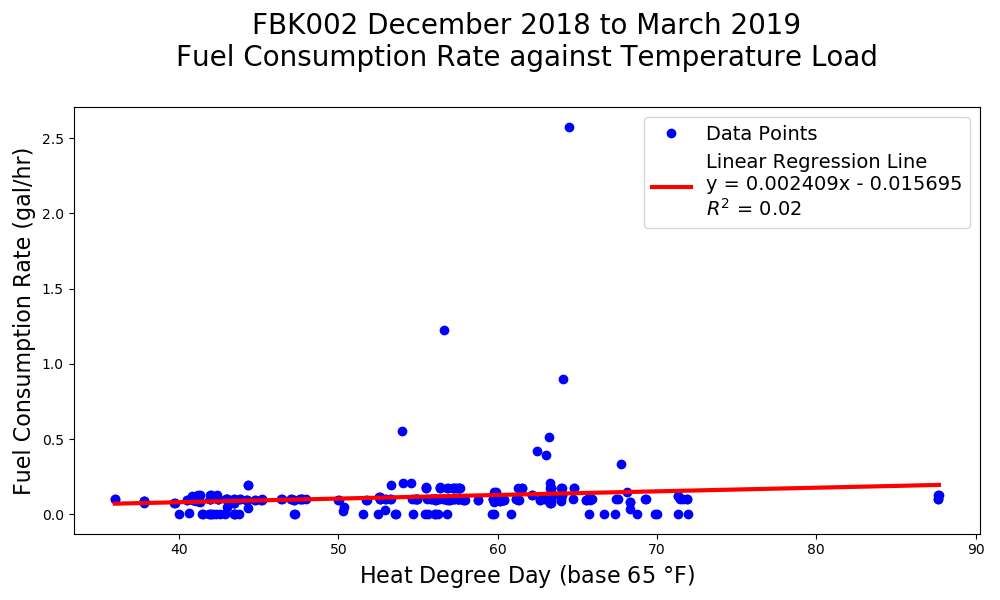
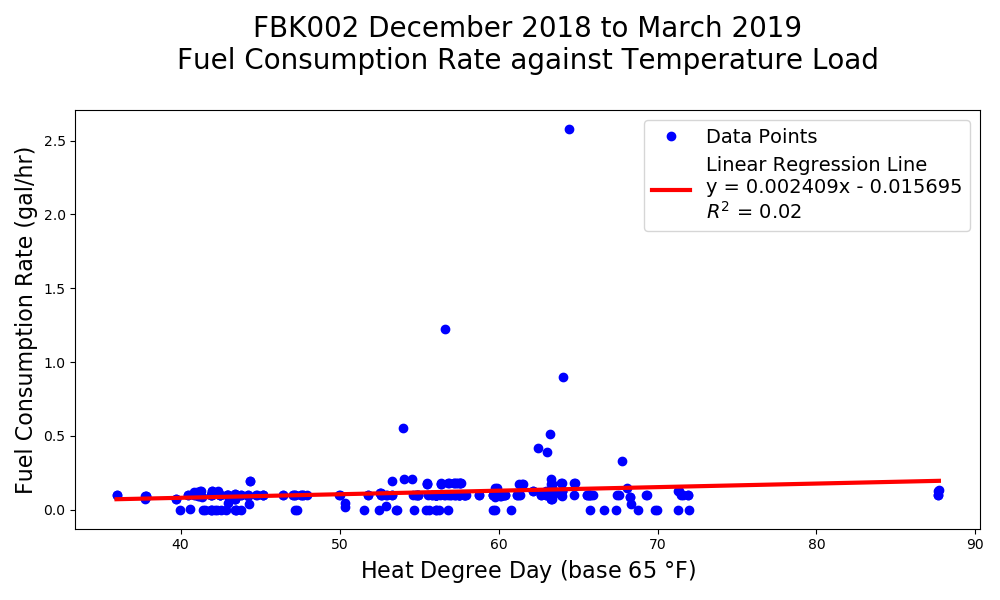
updates for plotting

diff --git a/Python_Plotting/python_test.py b/Python_Plotting/python_test.py
@@ -28,7 +28,7 @@ stoves = list(uni_nc.groups)
 #    clicks = uni_nc[stove]['clicks'][:]
 #    cumclicks = uni_nc[stove]['cumulative_clicks'][:]
     
-stove = stoves[1]
+stove = stoves[2]
 print(stove)
 time = uni_nc[stove]['time'][:]
 t_datetime = pplot.timestamp2datetime(time)
@@ -41,15 +41,24 @@ cumclicks = uni_nc[stove]['cumulative_clicks'][:]
 months = pplot.months_available(t_datetime)
 print(months)
 
-gph = np.array(gph)
-gph,_,_ = pplot.brock_improved_despike(gph,1)
+cumclicks = np.array(cumclicks,dtype=np.float)
 
+for i in range(len(cumclicks)):
+    if cumclicks[i] == -1:
+        cumclicks[i] = np.nan
+plt.plot(t_datetime,cumclicks)
+gph,_,_ = pplot.brock_improved_despike(gph,2)
+#plt.plot(gph)
+plt.show()
+
+#for i in range(len(cumclicks)):
+#    print(t_datetime[i],cumclicks[i])
 #### Plotting Heat Degree Days ####
 
-hdd = pplot.heat_degree_day(t_datetime,outT)
-pplot.plot_heating_degree_days(stove,t_datetime,gph,hdd,'test_hdd.png')
+#hdd = pplot.heat_degree_day(t_datetime,outT)
+#pplot.plot_heating_degree_days(stove,t_datetime,gph,hdd,'test_hdd.png')
 
 #### Plotting Polar #####
 
-pplot.polar_flow_plot_per_month(stove,2019,2,t_datetime,gph,'test_pol.png')
-pplot.polar_flow_plot_average_per_month(stove,2019,2,t_datetime,gph,30,'test_pol_ave.png')
+#pplot.polar_flow_plot_per_month(stove,2019,2,t_datetime,gph,'test_pol.png')
+#pplot.polar_flow_plot_average_per_month(stove,2019,2,t_datetime,gph,30,'test_pol_ave.png')
